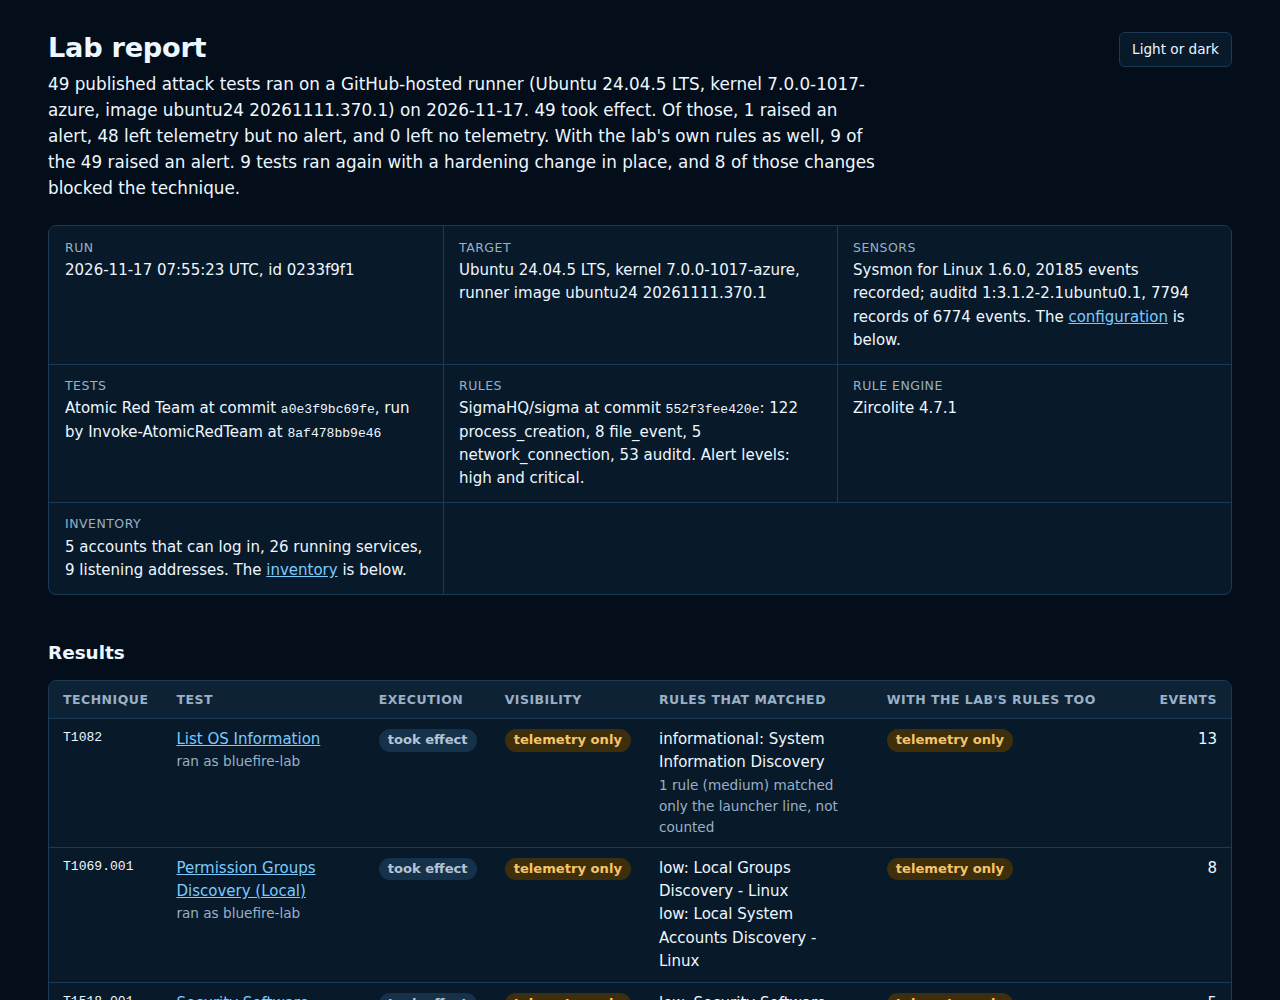
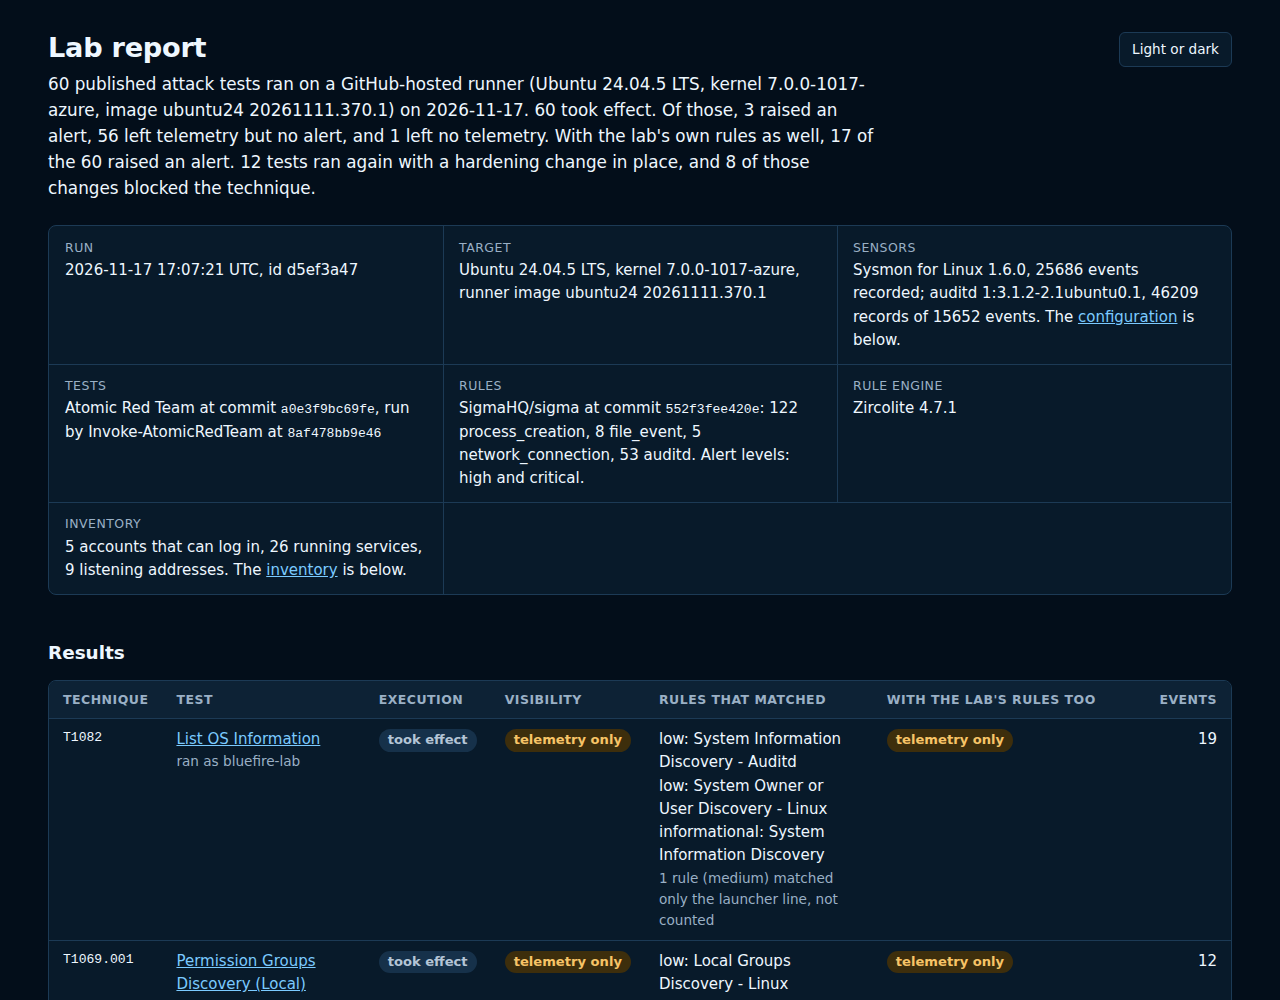
Take the README's facts and picture from main's run 44133154347
The README's picture and its section on what the bench shows today now
come from run 44133154347, the lab workflow's run on main after the
sibling tests were added (kernel 7.0.0-1017-azure): 61 tests on the
list, 60 run and all taking effect, the ccrypt test left out because the
runner has no ccencrypt; with the pinned rules 3 alerts, 56 telemetry
only and 1 without telemetry; 8 of the lab's 9 rules accepted and 17
alerts with them; 8 of 12 hardened runs blocked, with what the four
others leave open; 18 of the 53 pinned auditd rules matching anything;
and the comparison with the previous run on main, 74 runs the same and
17 new. The pictures are the ones that run's job took, from its artifact.

diff --git a/README.md b/README.md
@@ -8,11 +8,11 @@ changes a defense and runs the tests again, to show what the change did.
 
 <picture>
   <source media="(prefers-color-scheme: dark)" srcset="docs/report-dark.png">
-  <img src="docs/report-light.png" width="1280" alt="The top of the report of run 44042181011: 49 published attack tests, all took effect; 1 raised an alert, 48 left telemetry but no alert, 0 left no telemetry; with the lab's own rules 9 raised an alert; 8 of 9 hardening changes blocked the technique. Below it the run's facts and the first rows of the results table.">
+  <img src="docs/report-light.png" width="1280" alt="The top of the report of run 44133154347: 60 published attack tests, all took effect; 3 raised an alert, 56 left telemetry but no alert, 1 left no telemetry; with the lab's own rules 17 raised an alert; 12 tests ran again with a hardening change, and 8 of those changes blocked the technique. Below it the run's facts and the first rows of the results table.">
 </picture>
 
 The top of the report of
-[run 44042181011](https://github.com/Moneer-S/BlueFire-Nexus/actions/runs/44042181011),
+[run 44133154347](https://github.com/Moneer-S/BlueFire-Nexus/actions/runs/44133154347),
 as that run's job pictured it. The whole report is in the run's artifact.
 
 ## What it shows today
@@ -21,38 +21,50 @@ Everything below comes from runs of the `lab` workflow on GitHub-hosted
 runners, each linked. [`lab/README.md`](lab/README.md) gives the details, the
 limits, and how each answer is computed.
 
-In [run 44042181011](https://github.com/Moneer-S/BlueFire-Nexus/actions/runs/44042181011),
+In [run 44133154347](https://github.com/Moneer-S/BlueFire-Nexus/actions/runs/44133154347),
 the workflow's run on `main` of 17 November 2026, on an `ubuntu-24.04` runner
 with kernel 7.0.0-1017-azure:
 
-- **49 published tests** from [Atomic Red Team](https://github.com/redcanaryco/atomic-red-team)
-  for Linux ran unchanged, one at a time, through its own executor, with
-  Sysmon for Linux and auditd recording. All 49 took effect.
+- **61 published tests** from [Atomic Red Team](https://github.com/redcanaryco/atomic-red-team)
+  for Linux are on the list. 60 ran, one at a time, through its own executor,
+  with Sysmon for Linux and auditd recording; five of them with one input
+  argument changed, for example to search only the test account's home
+  instead of the whole disk. The runner has no `ccencrypt`, so the ccrypt test
+  was left out, and the report says why. All 60 took effect.
 - **What the defense saw:** with 188 pinned [SigmaHQ](https://github.com/SigmaHQ/sigma)
-  rules, 1 test raised an alert (a rule of level high or critical matched one
-  of its events), 48 left telemetry that no rule of an alert level matched,
-  and none left no telemetry.
-- **Detection rules of the lab's own:** 4 of its 5 rules are accepted: each
+  rules, 3 tests raised an alert (a rule of level high or critical matched one
+  of its events), 56 left telemetry that no rule of an alert level matched,
+  and 1 left none: emptying the shell history with the shell's own `echo`.
+  One of the 3 alerts comes from a rule for another technique that also
+  matched ordinary work in the same run.
+- **Detection rules of the lab's own:** 8 of its 9 rules are accepted: each
   still alerted when its tests ran again with changed input arguments, and
   none matched a baseline of ordinary administration or the runner's own work.
-  With them, 9 of the 49 tests raise an alert. The rule for a systemd unit
-  written by a shell, written for two tests, also catches a third published
-  procedure that was added later.
-- **Hardening:** 9 tests ran again with one hardening change each in place,
-  such as `/tmp` mounted `noexec` or crontab limited by `/etc/cron.allow`.
-  8 of the changes blocked the technique. The ninth shows what its change
-  leaves open: a script in `/tmp` still runs through `bash`.
-- **A sensor change:** with Sysmon alone, appending a command to `~/.bashrc`
-  left no telemetry. With auditd watching the shell start files, the same test
-  leaves a record that two pinned rules match
+  With them, 17 of the 60 tests raise an alert. The rule for a systemd unit
+  written by a shell, written for two tests, also catches three published
+  procedures added later. Other procedures of the same techniques show where
+  the rules stop, for example a search for TLS key files that the rule for a
+  search for SSH keys does not describe.
+- **Hardening:** 12 tests ran again with one of four hardening changes in
+  place, such as `/tmp` mounted `noexec` or crontab limited by
+  `/etc/cron.allow`. 8 of the 12 runs were blocked. The four others show what
+  a change leaves open: a script in `/tmp` still runs through `bash`, root
+  still puts a job into `/etc/cron.d`, and with `~/.bashrc` immutable the
+  account's `~/.bash_profile` and `~/.profile` still take new lines.
+- **Sensor changes:** with Sysmon alone, appending a command to `~/.bashrc`
+  left no telemetry; with auditd watching the shell start files, it leaves a
+  record that two pinned rules match
   ([run 44029759448](https://github.com/Moneer-S/BlueFire-Nexus/actions/runs/44029759448)).
+  With auditd recording process starts too, 18 of the 53 pinned auditd rules
+  match something and two tests became alerts, among them turning ASLR off.
 - **The target:** each run starts with an inventory of the runner (accounts
   that can log in, running services, listening addresses, the programs the
-  tests need) and chooses the tests by it.
+  tests need) and chooses the tests by it: here it left out the one test whose
+  program the runner lacks.
 - **Before and after:** every run is compared with the latest run on `main`.
-  When 30 tests were added,
-  [the comparison](https://github.com/Moneer-S/BlueFire-Nexus/actions/runs/44040235251/job/133897072590)
-  found the 34 runs of the earlier list with the same answers, and 36 new ones.
+  When 12 tests were added,
+  [the comparison](https://github.com/Moneer-S/BlueFire-Nexus/actions/runs/44133154347/job/134224713568)
+  found the 74 runs of the earlier list with the same answers, and 17 new ones.
 - **Seven controls** on the measurement passed: the sensors were ready before
   the first test, every test's markers were recorded, every hardening change
   was removed again, no sensor lost a record, the rule engine read every rule
